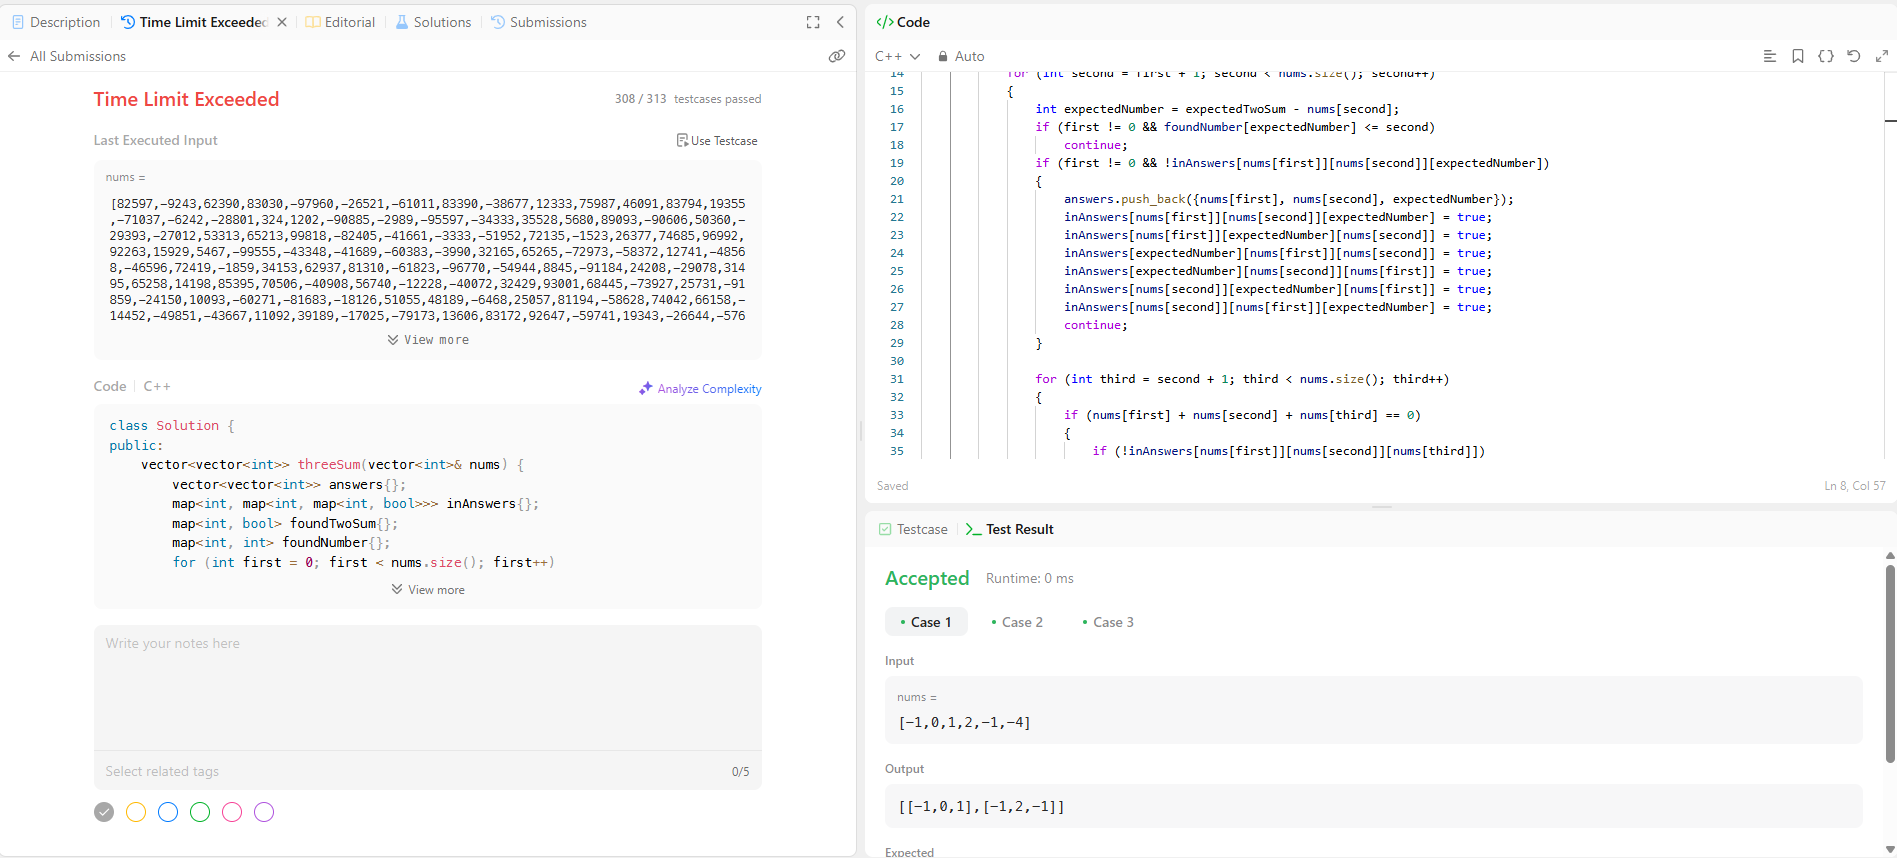
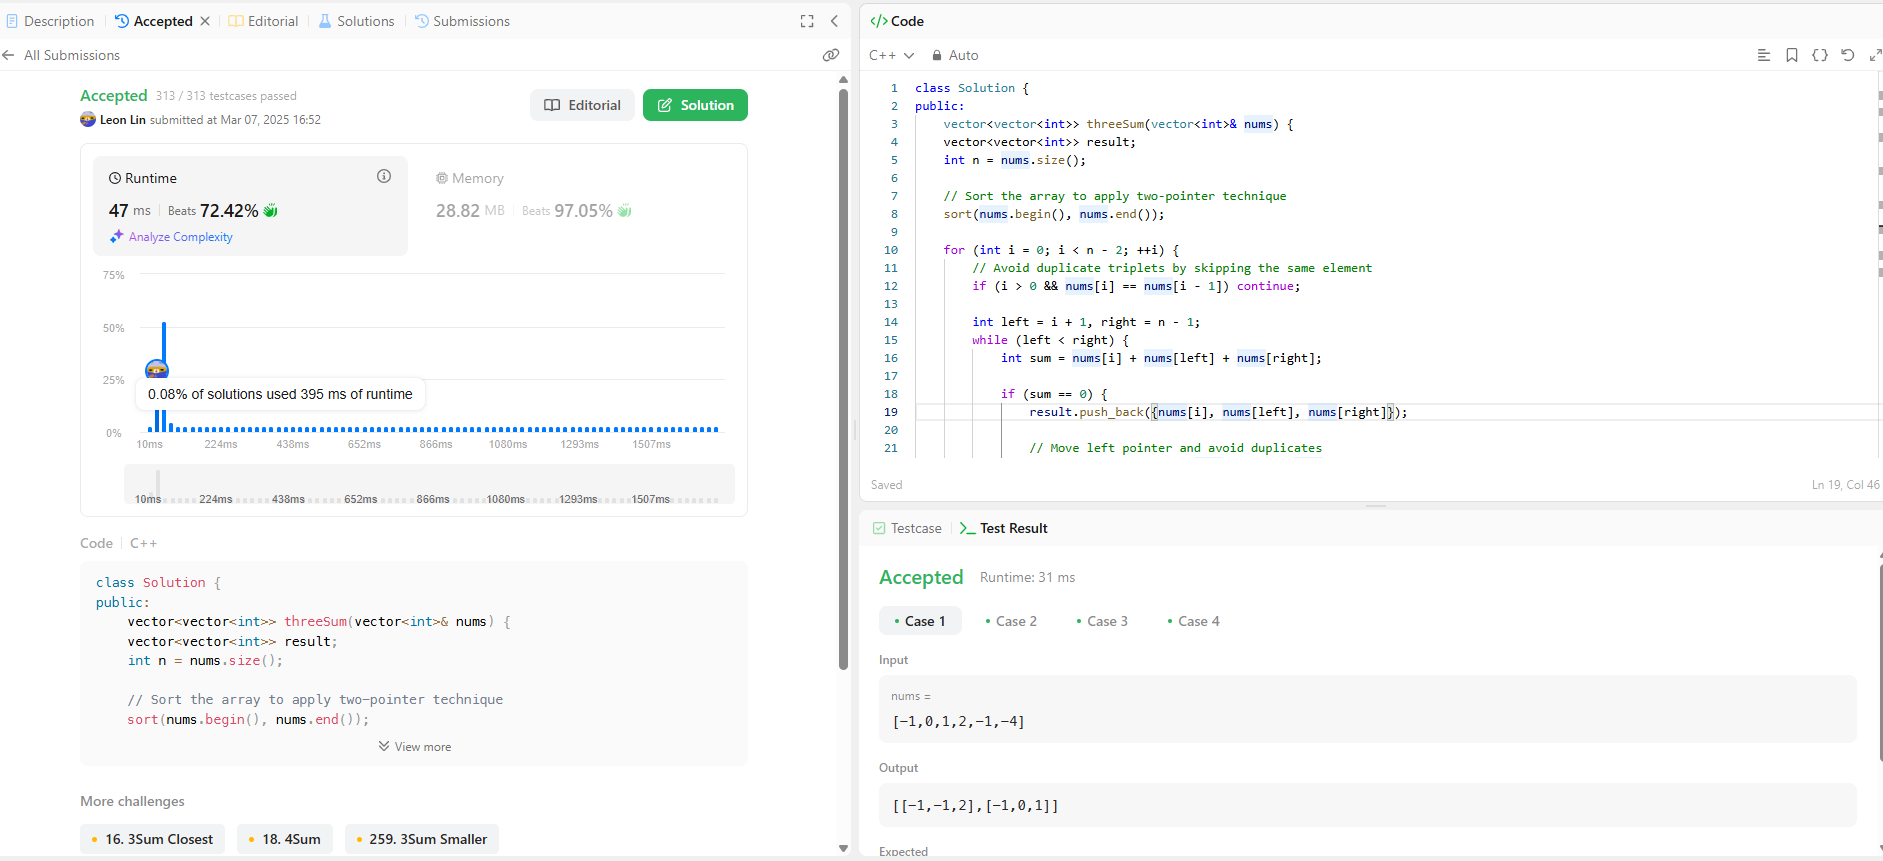
Medium 15 threeSum (revision)

diff --git a/3_sum.cpp b/3_sum.cpp
@@ -1,53 +1,51 @@
-class Solution {
+class Solution
+{
 public:
-    vector<vector<int>> threeSum(vector<int>& nums) {
-        vector<vector<int>> answers{};
-        map<int, map<int, map<int, bool>>> inAnswers{};
-        map<int, bool> foundTwoSum{};
-        map<int, int> foundNumber{};
-        for (int first = 0; first < nums.size(); first++)
+    vector<vector<int>> threeSum(vector<int> &nums)
+    {
+        vector<vector<int>> result;
+        int n = nums.size();
+
+        // Sort the array to apply two-pointer technique
+        sort(nums.begin(), nums.end());
+
+        for (int i = 0; i < n - 2; ++i)
         {
-            int expectedTwoSum = 0 - nums[first];
-            if (first != 0 && !foundTwoSum[expectedTwoSum])
+            // Avoid duplicate triplets by skipping the same element
+            if (i > 0 && nums[i] == nums[i - 1])
                 continue;
 
-            for (int second = first + 1; second < nums.size(); second++)
+            int left = i + 1, right = n - 1;
+            while (left < right)
             {
-                int expectedNumber = expectedTwoSum - nums[second];
-                if (first != 0 && foundNumber[expectedNumber] <= second)
-                    continue;
-                if (first != 0 && !inAnswers[nums[first]][nums[second]][expectedNumber])
-                {
-                    answers.push_back({nums[first], nums[second], expectedNumber}); 
-                    inAnswers[nums[first]][nums[second]][expectedNumber] = true;
-                    inAnswers[nums[first]][expectedNumber][nums[second]] = true;
-                    inAnswers[expectedNumber][nums[first]][nums[second]] = true;
-                    inAnswers[expectedNumber][nums[second]][nums[first]] = true;
-                    inAnswers[nums[second]][expectedNumber][nums[first]] = true;
-                    inAnswers[nums[second]][nums[first]][expectedNumber] = true;
-                    continue;
-                }
+                int sum = nums[i] + nums[left] + nums[right];
 
-                for (int third = second + 1; third < nums.size(); third++)
+                if (sum == 0)
                 {
-                    if (nums[first] + nums[second] + nums[third] == 0)
-                    {                        
-                        if (!inAnswers[nums[first]][nums[second]][nums[third]])
-                        {
-                            answers.push_back({nums[first], nums[second], nums[third]}); 
-                            inAnswers[nums[first]][nums[second]][nums[third]] = true;
-                            inAnswers[nums[first]][nums[third]][nums[second]] = true;
-                            inAnswers[nums[third]][nums[first]][nums[second]] = true;
-                            inAnswers[nums[third]][nums[second]][nums[first]] = true;
-                            inAnswers[nums[second]][nums[third]][nums[first]] = true;
-                            inAnswers[nums[second]][nums[first]][nums[third]] = true;
-                        }
-                    }
-                    foundTwoSum[nums[second] + nums[third]] = true;
-                    foundNumber[nums[third]] = third;
+                    result.push_back({nums[i], nums[left], nums[right]});
+
+                    // Move left pointer and avoid duplicates
+                    while (left < right && nums[left] == nums[left + 1])
+                        ++left;
+                    // Move right pointer and avoid duplicates
+                    while (left < right && nums[right] == nums[right - 1])
+                        --right;
+
+                    // Move both pointers after storing the result
+                    ++left;
+                    --right;
+                }
+                else if (sum < 0)
+                {
+                    ++left; // Increase sum by moving left pointer
+                }
+                else
+                {
+                    --right; // Decrease sum by moving right pointer
                 }
             }
         }
-        return answers;
+
+        return result;
     }
 };

diff --git a/3_sum_another_approach.cpp b/3_sum_another_approach.cpp
@@ -1,0 +1,59 @@
+class Solution
+{
+public:
+    vector<vector<int>> threeSum(vector<int> &nums)
+    {
+        vector<vector<int>> answers{};
+        map<int, map<int, map<int, bool>>> inAnswers{};
+        map<int, bool> foundTwoSum{};
+        map<int, vector<std::pair<std::pair<int, int>, std::pair<int, int>>>> twoSumPairs{};
+
+        for (int first = 0; first < nums.size(); first++)
+        {
+            for (int second = first + 1; second < nums.size(); second++)
+            {
+                int twoSum = nums[first] + nums[second];
+                // save two sum locations and values
+                if (!foundTwoSum[twoSum])
+                {
+                    twoSumPairs[twoSum] = {{{first, second}, {nums[first], nums[second]}}};
+                    // label specific two sum existed
+                    foundTwoSum[twoSum] = true;
+                }
+                else
+                    twoSumPairs[twoSum].push_back({{first, second}, {nums[first], nums[second]}});
+            }
+        }
+
+        for (int third = 0; third < nums.size(); third++)
+        {
+            // not found specific two sum, so continue
+            if (!foundTwoSum[0 - nums[third]])
+                continue;
+            else
+            {
+                int expectedTwoSum = 0 - nums[third];
+                for (auto p : twoSumPairs[expectedTwoSum])
+                {
+                    int first = p.first.first;
+                    int second = p.first.second;
+                    int firstNum = p.second.first;
+                    int secondNum = p.second.second;
+                    int thirdNum = nums[third];
+                    if (first == third || second == third || inAnswers[firstNum][secondNum][thirdNum])
+                        continue;
+                    answers.push_back({firstNum, secondNum, thirdNum});
+                    // remove duplicates number triplets
+                    inAnswers[firstNum][secondNum][thirdNum] = true;
+                    inAnswers[firstNum][thirdNum][secondNum] = true;
+                    inAnswers[thirdNum][firstNum][secondNum] = true;
+                    inAnswers[thirdNum][secondNum][firstNum] = true;
+                    inAnswers[secondNum][thirdNum][firstNum] = true;
+                    inAnswers[secondNum][firstNum][thirdNum] = true;
+                }
+            }
+        }
+
+        return answers;
+    }
+};
